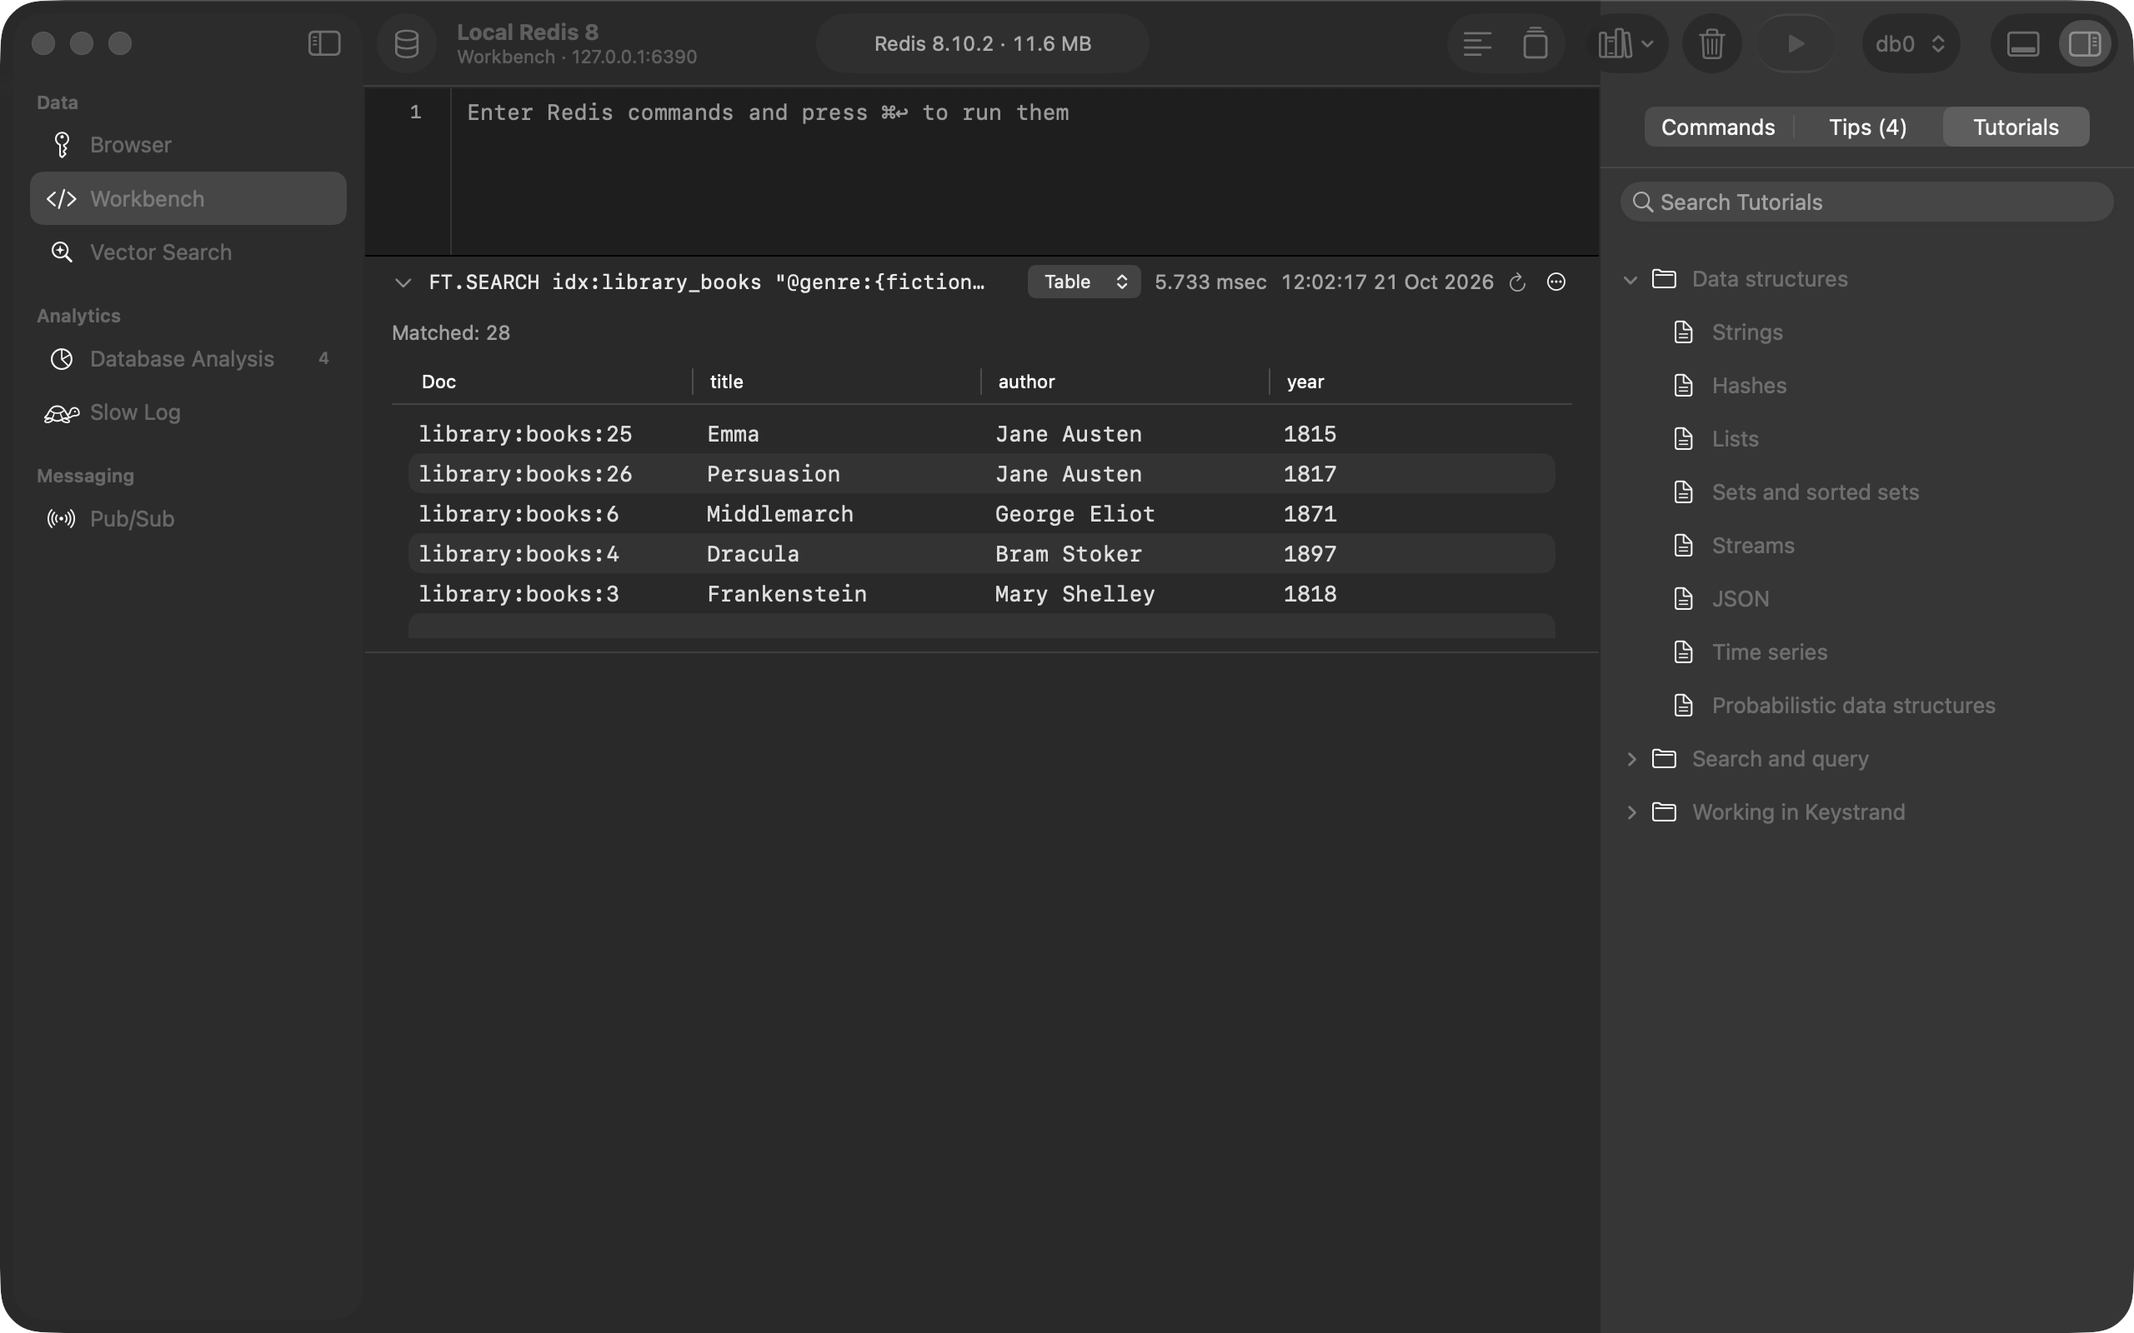
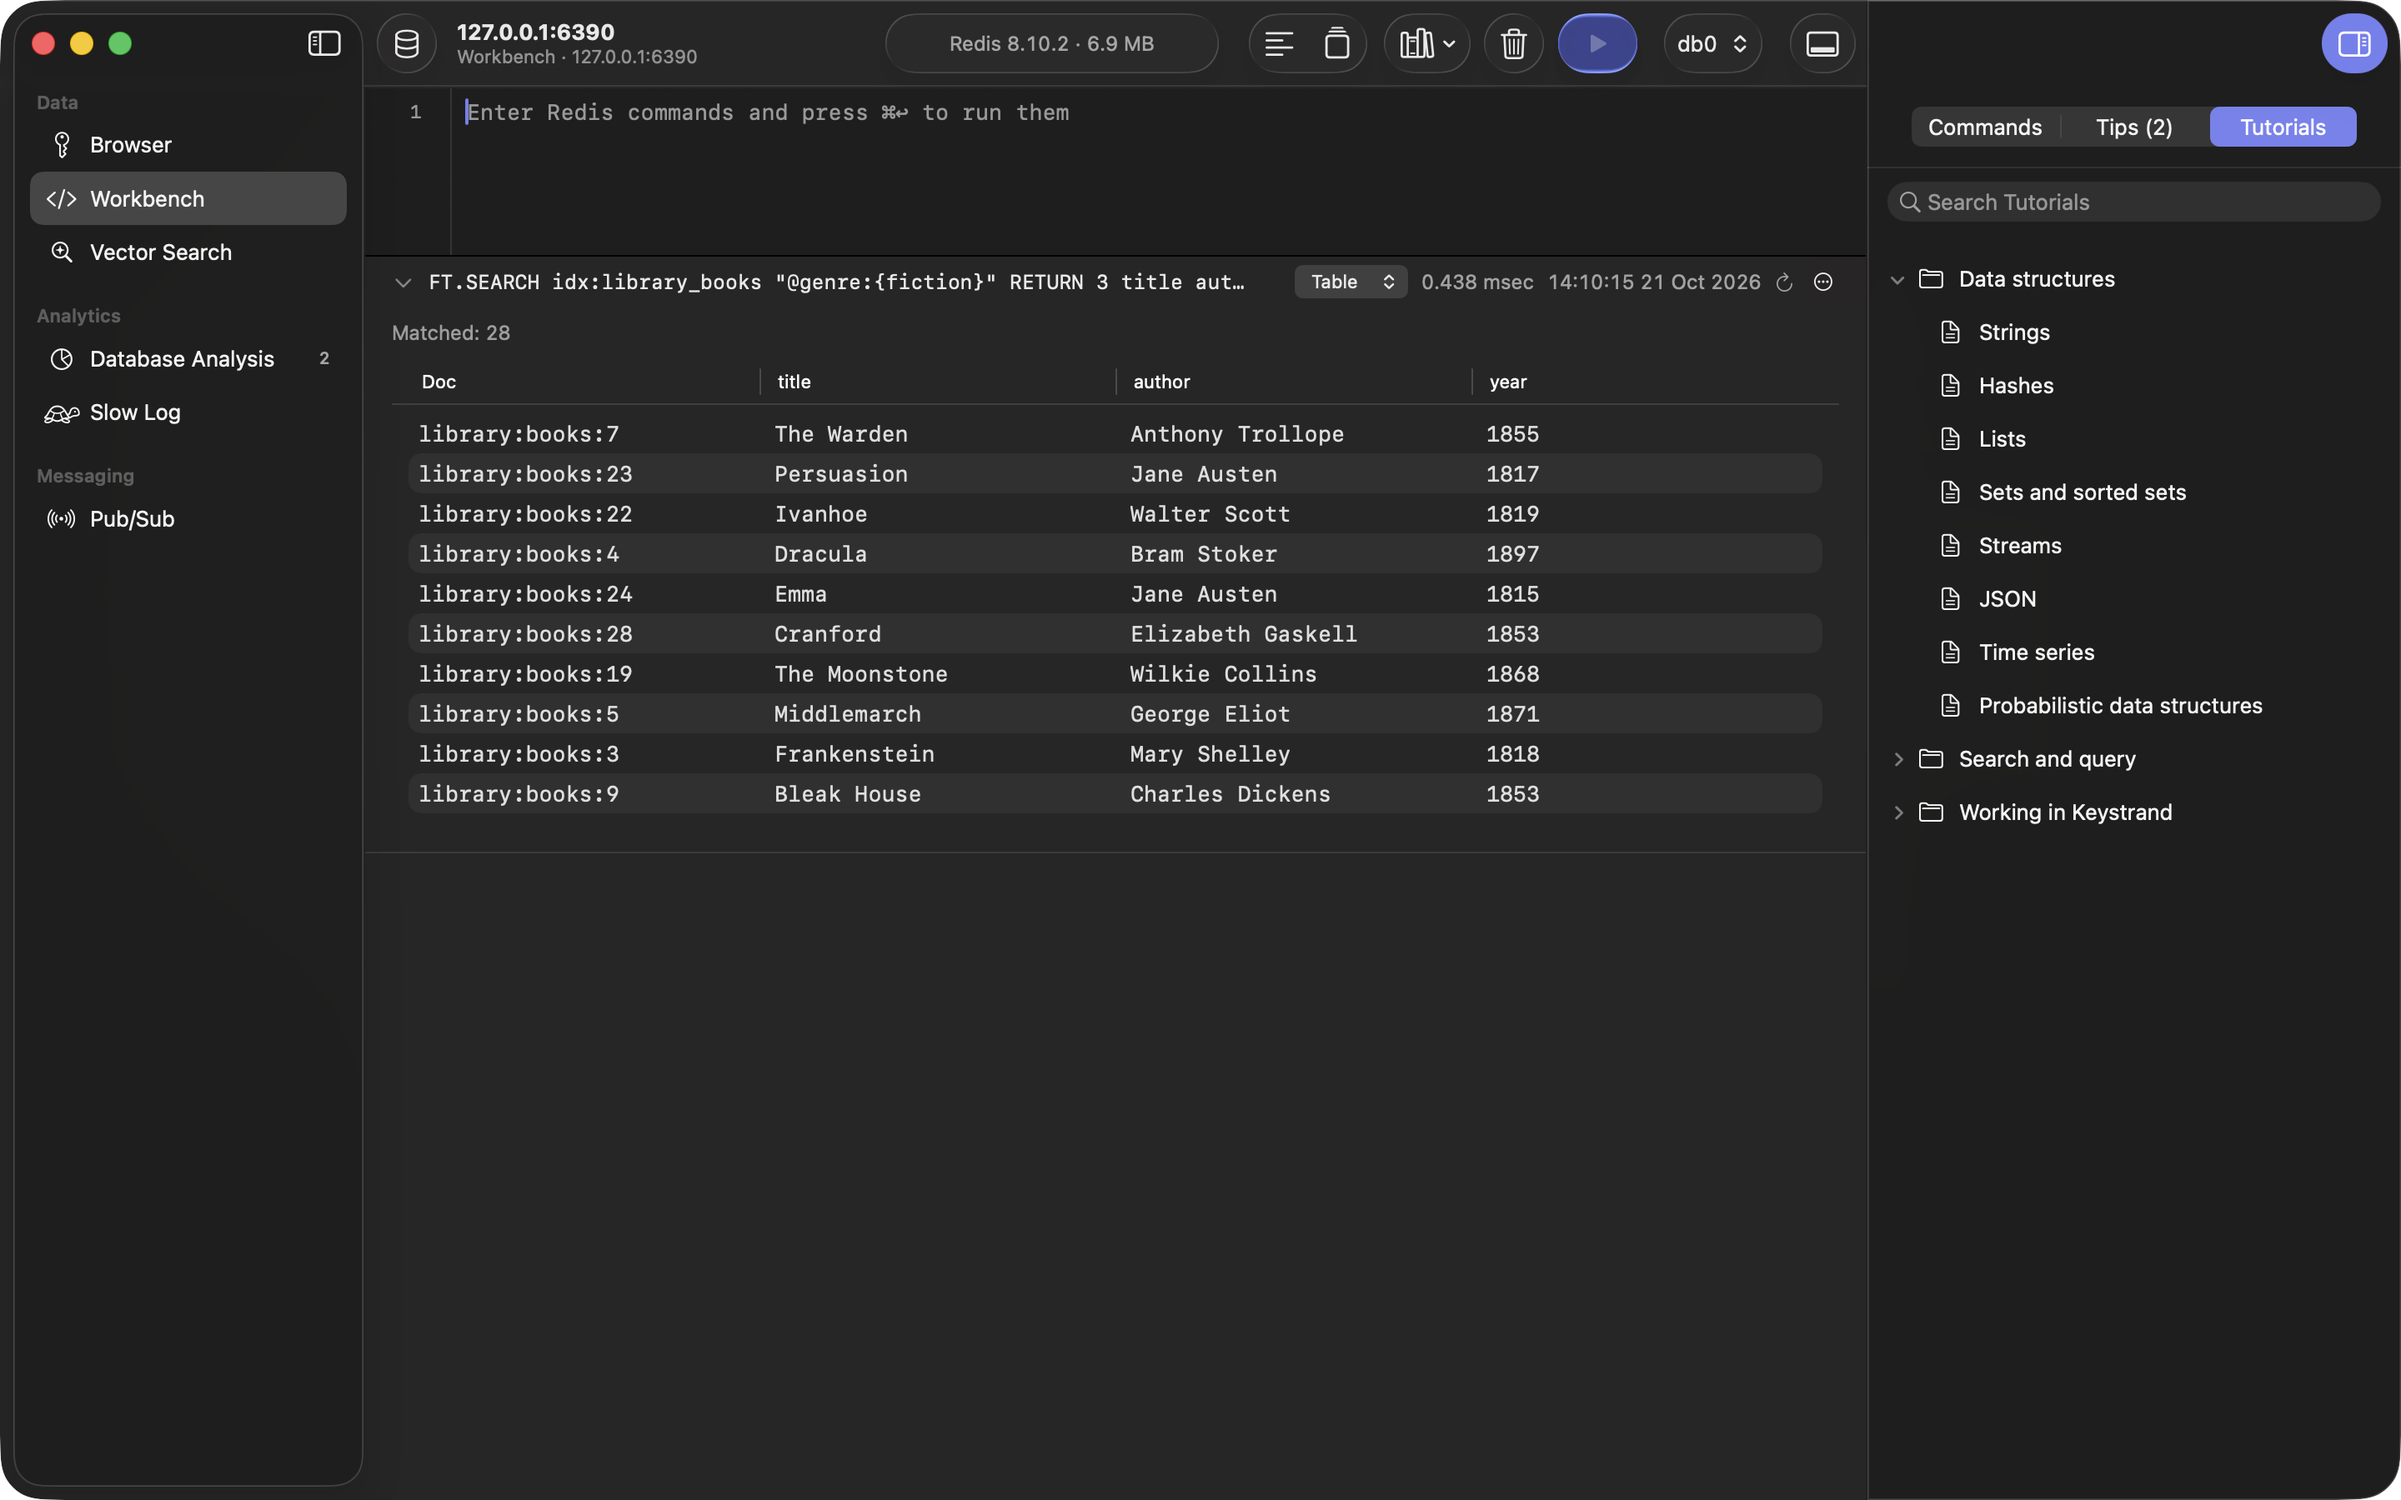
fix(appshell): give the inspector its own toolbar section
Attach the inspector to the split view so macOS partitions the toolbar at the column divider. Only the inspector toggle sits over the open inspector; section items end at the divider instead of straddling it. Record the rule in DESIGN.md and refresh the Workbench screenshot.

diff --git a/Sources/AppShell/DatabaseWindowView.swift b/Sources/AppShell/DatabaseWindowView.swift
@@ -152,11 +152,12 @@ struct DatabaseWindowView: View {
                 .navigationSplitViewColumnWidth(min: 180, ideal: 210, max: 280)
         } detail: {
             detail
-                .inspector(isPresented: Binding(get: { inspector.isShown }, set: { inspector.setShown($0) })) {
-                    InspectorView(session: session)
-                        .inspectorColumnWidth(min: 260, ideal: 320, max: 480)
-                }
                 .toolbar { toolbarContent }
+        }
+        .inspector(isPresented: Binding(get: { inspector.isShown }, set: { inspector.setShown($0) })) {
+            InspectorView(session: session)
+                .inspectorColumnWidth(min: 260, ideal: 320, max: 480)
+                .toolbar { inspectorToolbarContent }
         }
         .navigationTitle(DatabaseWindowTitle.title(session: session))
         .navigationSubtitle(DatabaseWindowTitle.subtitle(session: session))
@@ -344,19 +345,40 @@ struct DatabaseWindowView: View {
         }
 
         ToolbarItemGroup(placement: .primaryAction) {
-            Toggle(isOn: Binding(get: { bottom.isShown(session.navigator) },
-                                 set: { bottom.setVisible($0, navigator: session.navigator) })) {
-                Label("Bottom Panel", systemImage: "rectangle.bottomthird.inset.filled")
+            bottomPanelToggle
+            if !inspector.isShown {
+                inspectorToggle
             }
-            .toggleStyle(.button)
-            .disabled(!connection.phase.showsBottomPanel)
-            .help(bottom.isShown(session.navigator) ? "Hide Bottom Panel (⇧⌘Y)" : "Show Bottom Panel (⇧⌘Y)")
-            Toggle(isOn: Binding(get: { inspector.isShown }, set: { inspector.setShown($0) })) {
-                Label("Inspector", systemImage: "sidebar.trailing")
-            }
-            .toggleStyle(.button)
-            .help(inspector.isShown ? "Hide Inspector (⌥⌘I)" : "Show Inspector (⌥⌘I)")
         }
+    }
+
+    /// Declared on the inspector content, so the toggle sits over the inspector column while it is open.
+    @ToolbarContentBuilder
+    private var inspectorToolbarContent: some ToolbarContent {
+        if inspector.isShown {
+            ToolbarSpacer(.flexible, placement: .primaryAction)
+            ToolbarItem(placement: .primaryAction) {
+                inspectorToggle
+            }
+        }
+    }
+
+    private var bottomPanelToggle: some View {
+        Toggle(isOn: Binding(get: { bottom.isShown(session.navigator) },
+                             set: { bottom.setVisible($0, navigator: session.navigator) })) {
+            Label("Bottom Panel", systemImage: "rectangle.bottomthird.inset.filled")
+        }
+        .toggleStyle(.button)
+        .disabled(!connection.phase.showsBottomPanel)
+        .help(bottom.isShown(session.navigator) ? "Hide Bottom Panel (⇧⌘Y)" : "Show Bottom Panel (⇧⌘Y)")
+    }
+
+    private var inspectorToggle: some View {
+        Toggle(isOn: Binding(get: { inspector.isShown }, set: { inspector.setShown($0) })) {
+            Label("Inspector", systemImage: "sidebar.trailing")
+        }
+        .toggleStyle(.button)
+        .help(inspector.isShown ? "Hide Inspector (⌥⌘I)" : "Show Inspector (⌥⌘I)")
     }
 
     // MARK: State sync

diff --git a/docs/DESIGN.md b/docs/DESIGN.md
@@ -253,8 +253,12 @@ Apply these rules:
   Search "Create Index". Use the default style for other toolbar items.
 - Every toolbar item has a `Label` with a title (shown in the overflow menu and to VoiceOver) and a `.help` tooltip.
 - Check the toolbar order in a screenshot, as described in section 9.
-  If SwiftUI places section items after the AppShell group, declare AppShell's
-  items on the detail column's outermost view to preserve the required order.
+- AppShell declares items 6 to 9 on the detail column's outermost view, after
+  the section content, which keeps the required order. While the inspector is
+  shown, the inspector toggle moves out of group 9 and is declared on the
+  inspector content after a flexible `ToolbarSpacer`, so it sits at the
+  trailing edge over the inspector column, and the detail items end at the
+  column divider instead of straddling it.
 
 #### 2.3.3 Activity view (toolbar center)
 
@@ -281,7 +285,8 @@ Use the patterns from **Xcode** activity viewer. The capsule in the toolbar cent
 
 Use the patterns from **Xcode** inspectors and **Pages** inspector (segmented pane switcher at the top).
 
-- `.inspector(isPresented:)` on the detail column. Toggle: toolbar item 9, View > Show Inspector (⌥⌘I).
+- `.inspector(isPresented:)` on the `NavigationSplitView`, not on the detail column. Only that placement gives the
+  inspector its own toolbar section on macOS. Toggle: toolbar item 9, View > Show Inspector (⌥⌘I).
 - Content: `InspectorView` (AppShell) = `Picker` with `.pickerStyle(.segmented)`, `.labelsHidden()`, full width, padded
   12 pt, then the pane:
 
